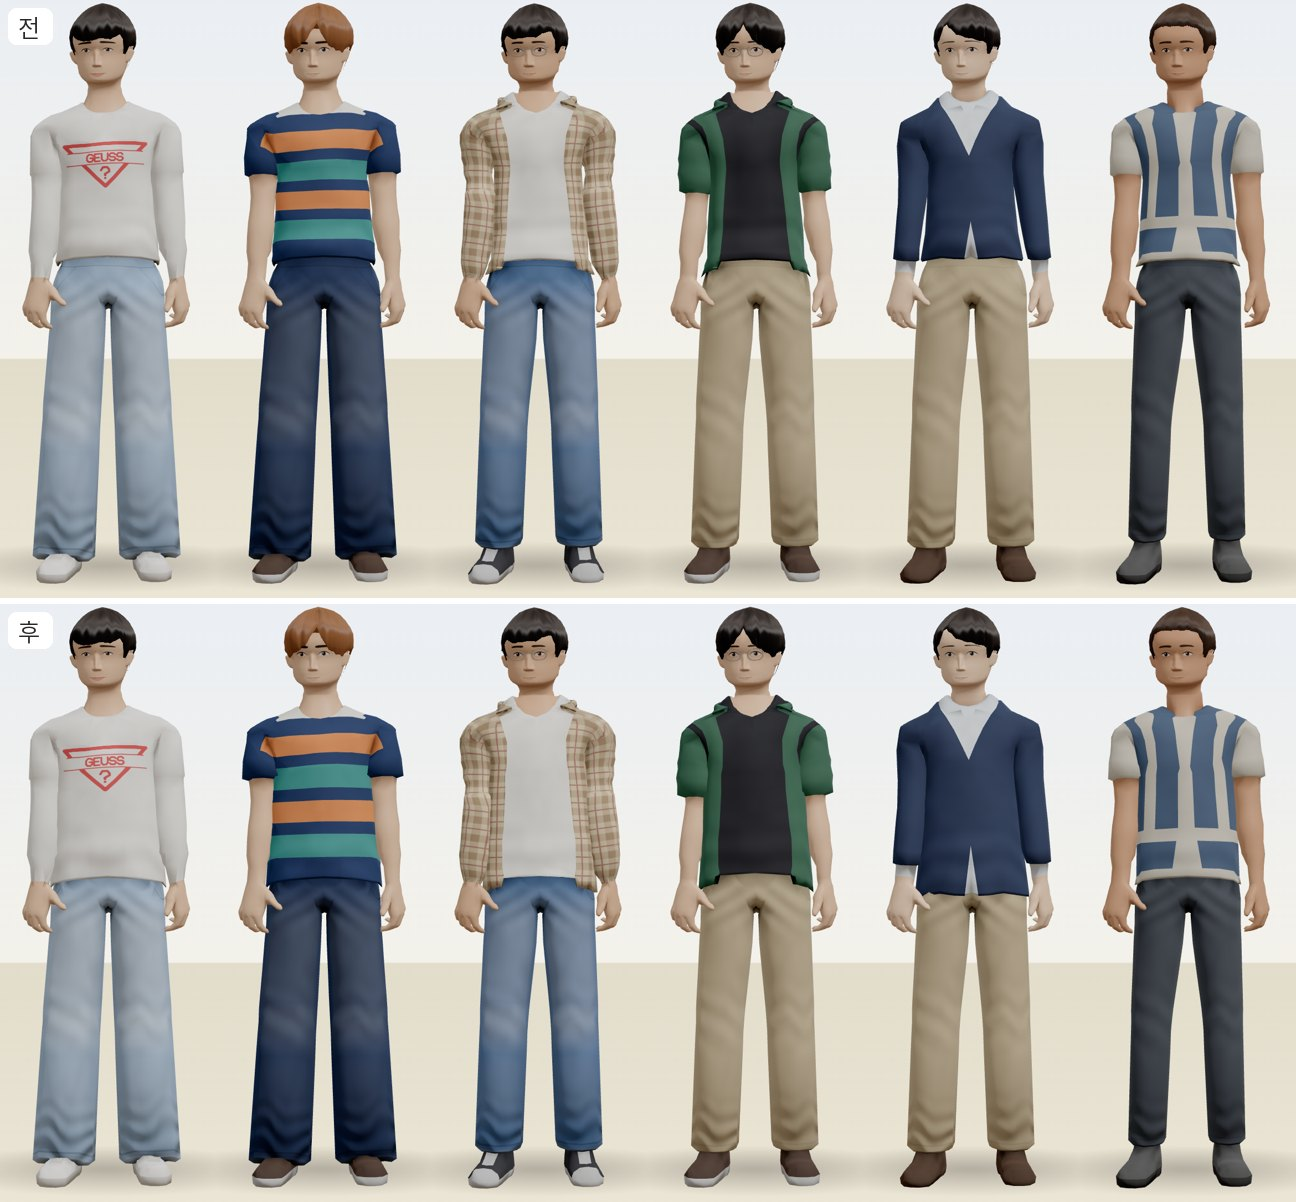
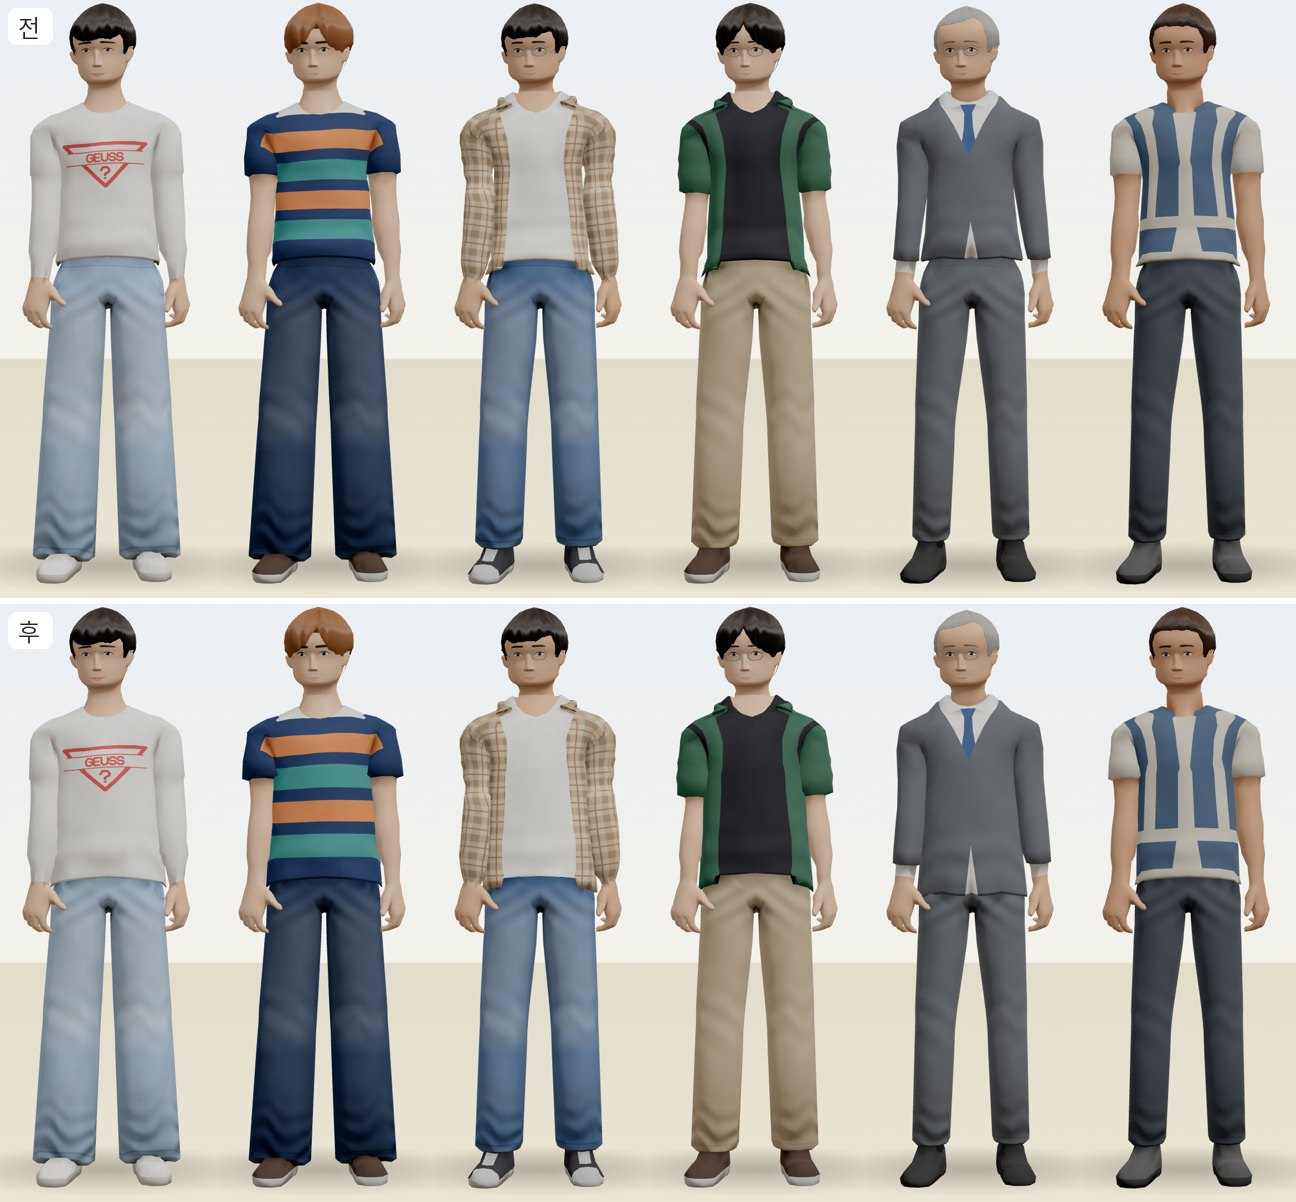
준호의 재킷도 전의 핏으로 되돌림
p06 에 fit=False. 모델은 핏을 바꾸기 전 커밋의 파일과 같다.
새 소식의 문구 · 그림과 고증 4.11 을 그에 맞춤.

Changed region(s): [[0.679, 0.0, 0.8333, 0.985]]

diff --git a/blender/characters.py b/blender/characters.py
@@ -215,7 +215,7 @@ PEOPLE = {
                       {'Suit': '#27304a', 'White': '#dfe7ee', 'Tie': '#dfe7ee', 'LightBlue': '#b9a67e', 'Black': '#3a2a1f',
                        'Skin': SKIN['a'], 'Hair': HAIR['black']},
                       'navy blazer, light blue shirt, beige cotton trousers (콤비); 2:8 side parting, the fringe swept across',
-                      flip=True,
+                      flip=True, fit=False,          # (the maker's word, 2026-11-26: the blazer as the pack cut it)
                       face=dict(lid='inner', slant=.02, jaw=.95, brow_tilt=-.05, arch=1.1, smile=.0018, brow=.8, brow_len=1.12, brow_gap=.002, brow_taper=.8,
                                 nose=.98, tip_up=1.15, tip_round=.7, wing=.9, bridge=.25, nose_w=.92)),
     'p07': man('thin', 'Suit', 'Suit', 'Suit',

diff --git a/reference/고증/4.11_사람_옷차림.md b/reference/고증/4.11_사람_옷차림.md
@@ -331,7 +331,8 @@
 ## 남자 상의의 핏 (2026-11-26)
 
 만든 이의 말: 「캐릭터들의 상의가 다들 딱 달라붙는 쫄티 느낌이야. 일부 인물은 그렇게 하더라도 전반적으로 자연스러운 옷 핏을
-살려줘.」 열일곱 명 모두에 해 본 뒤, 같은 날 여자 옷은 되돌림(「여자 캐릭터들은 이전 핏이 나은 거 같어」).
+살려줘.」 열일곱 명 모두에 해 본 뒤, 같은 날 여자 옷(「여자 캐릭터들은 이전 핏이 나은 거 같어」)과 준호의 재킷(「준호도 이전
+핏으로」)은 되돌림.
 `blender/characters.py` `FIT` · `FITS` · `hang_top` · `ease_sleeves`, 사람마다 `PEOPLE` 의 `fit`.
 
 - 전의 모양(팩의 상의는 몸에 색을 입힌 것)
@@ -357,7 +358,7 @@
 |---|---|---|---|---|---|
 | 티 | p01 · p05 | 1.0 | 0.8 → 2.2 cm | 2 cm 아래 | 0.6 → 2.4 cm (p01 긴소매 0.8 → 1.4 cm) |
 | 남방 | p02 · p16 | 1.0 | 0.8 → 2.4 cm | 3.5 cm 아래 | 0.4 → 1.8 cm |
-| 재킷 | p06 · p07 | 0.8 | 0.4 → 1.6 cm | 5 cm 아래 | 0.2 → 0.8 cm |
+| 재킷 | p07 | 0.8 | 0.4 → 1.6 cm | 5 cm 아래 | 0.2 → 0.8 cm |
 | 조끼 | p08 | 0.8 | 0.4 → 1.2 cm | 1 cm 아래 | 0.4 → 1.6 cm |
 | 후드티 | p03 · p04 | 0.6 | 0 → 0.4 cm | 그대로 | 그대로 |
 
@@ -366,13 +367,16 @@
 | 옷 | 허리 높이의 폭 | 자락의 높이 |
 |---|---|---|
 | 티(p05) | 27.1 → 33.2 cm (앞뒤 17.5 → 28.5 cm) | 0.934 → 0.880 m |
-| 재킷(p06) | 25.0 → 30.5 cm | 0.949 → 0.852 m |
+| 재킷(p07) | 25.0 → 30.1 cm | 0.949 → 0.852 m (같은 옷을 입은 p06 에서 읽은 값) |
 
 - 여자 상의: 해 보고 되돌림
   - 해 본 값: 티(p09) · 남방(p17)은 위 표와 같게, 맨투맨(p12) 여유 0.8 → 1.6 cm, 카디건(p13) 0.6 → 1.6 cm, 니트(p11) 걸리는
     정도 0.75 · 여유 0.4 → 1.2 cm, 분홍 니트(p10) 0.6 · 0.2 → 0.8 cm, 정장(p14)은 재킷과 같게. p15 는 쫄티 그대로
   - 그때의 허리 폭: 티 22.7 → 30.4 cm, 카디건 21.2 → 28.7 cm, 맨투맨 25.2 → 29.9 cm, 니트 21.7 → 25.7 cm
   - 되돌린 뒤: 여자 여덟 명의 모델은 2026-11-26 전과 같음(파일이 같은지 확인함). `FITS` 에 여자 옷을 두지 않음
+- 준호(p06)의 재킷: 해 보고 되돌림
+  - 해 본 값: 위 표의 재킷과 같게(허리 폭 25.0 → 30.5 cm, 자락 0.949 → 0.852 m)
+  - 되돌린 뒤: 모델은 2026-11-26 전과 같음(파일이 같은지 확인함). `PEOPLE` 의 `fit=False`. 같은 재킷을 입는 군중도 전의 핏
 - 본 자료와 한계
   - 폭 · 길이 · 여유의 값은 사진에서 잰 것이 아님
   - 자락을 바지 밖으로 내어 입힘. 신촌문화축제 사진의 남자 넷은 티를 벨트 안에 넣어 입었음(넣어 입은 차림은 만들지 않음)
